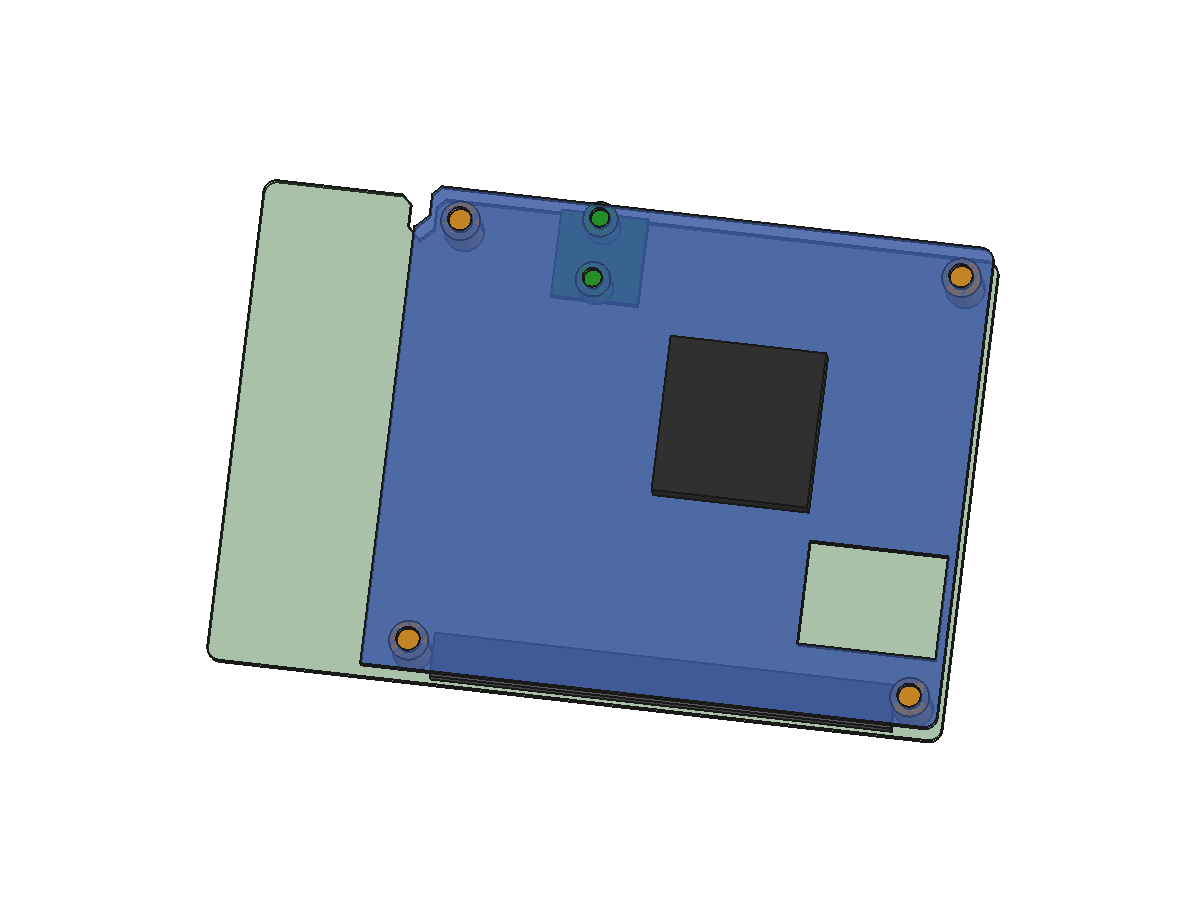
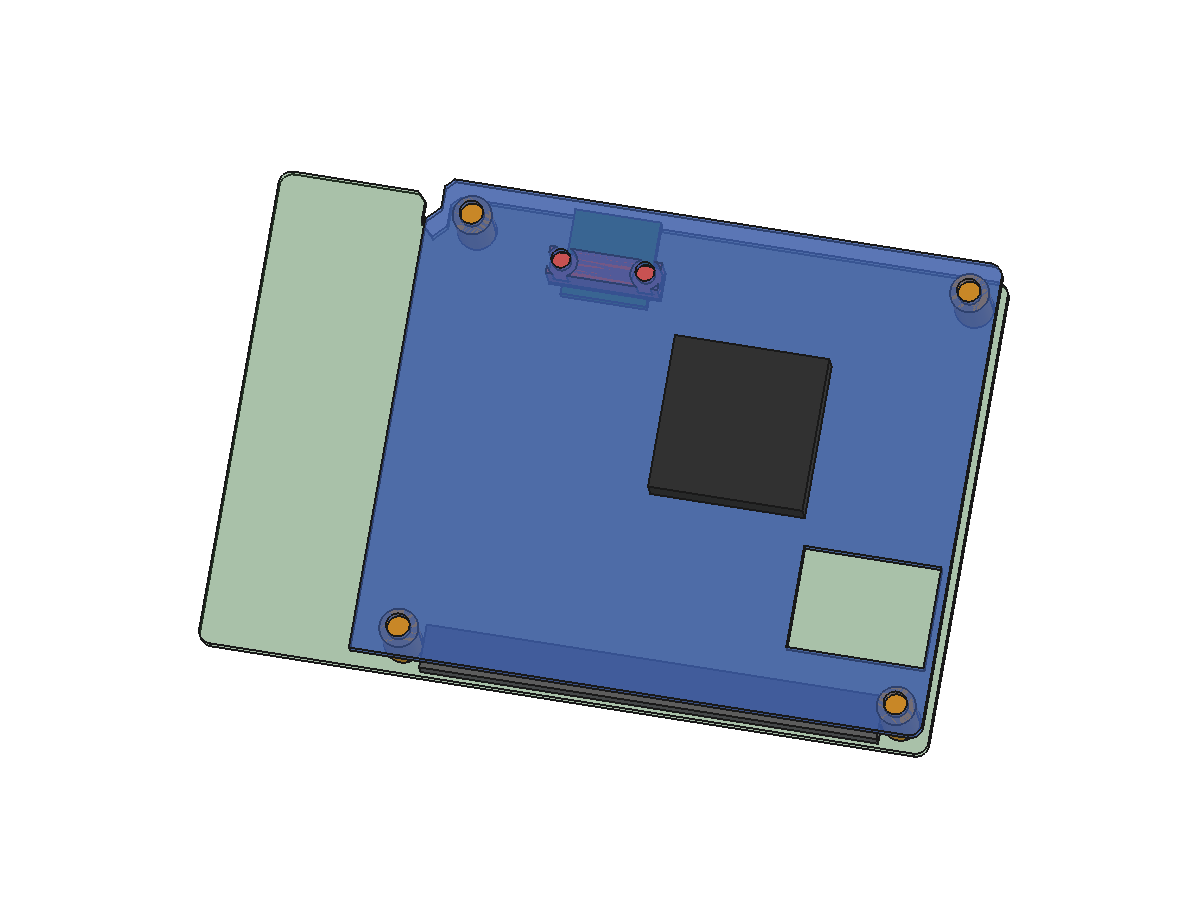
mechanical: press the CAM1 adapter with a printed bar instead of screws
A PCB cannot carry moulded bosses, so the downward pressure now comes from a separate 3D-printed press bar + silicone foam, fastened to the plate underside with 2x M2 into heat-set inserts. Bar is shaped to clear the IR receiver (y>=51.12) and the 24P FPC (y<=46.24); +y edge left free for the 30P ribbon. Clash check vs STEP: plate/bar/foam/adapter all 0.

diff --git a/mechanical/lbc3_hat/model.py b/mechanical/lbc3_hat/model.py
@@ -62,10 +62,18 @@ CAM1_RECT = (35.20, 50.03, 43.70, 52.53)
 CAM1_H = 0.77
 # Adapter board: just covers CAM1 + two M2.5 screws.   # TBC: refine with user
 ADAPTER_L, ADAPTER_W, ADAPTER_T = 10.0, 10.0, 1.6
-ADAPTER_CX, ADAPTER_CY = 39.45, 51.0
+ADAPTER_CX, ADAPTER_CY = 39.45, 51.28
 ADAPTER_Z0 = CAM1_H              # sits on top of the socket
-ADAPTER_HOLE_SPAN = 3.5          # the two M2 holes, along board y
-ADAPTER_HOLE_D = M2_CLEAR_D
+# CAM1 adapter retention.
+# The top plate is a PCB and cannot carry moulded bosses, so the downward
+# pressure comes from a SEPARATE part: a 3D-printed press bar screwed to the
+# plate's underside.  It is shaped to clear the IR receiver (y>=51.12) and the
+# 24P FPC (y<=46.24), and leaves the +y edge free for the 30P ribbon.
+PRESS_BAR = (33.0, 47.2, 46.0, 50.4)      # x0, y0, x1, y1
+PRESS_BAR_Z0 = 3.4                        # bar bottom (foam sits below it)
+FOAM_T = 1.0                              # silicone/EPDM pad -> compliance
+PRESS_BAR_HOLES = [(34.6, 48.8), (44.4, 48.8)]   # 2x M2 into heat-set inserts
+M2_INSERT_D = 3.6                         # cosmetic: modelled as a hole
 
 NOTCH = [(16.0, 56.0), (17.0, 55.0), (17.0, 52.5), (18.5, 51.0),
          (20.0, 52.5), (20.0, 55.0), (21.0, 56.0), (21.0, 57.5), (16.0, 57.5)]
@@ -73,6 +81,7 @@ NOTCH = [(16.0, 56.0), (17.0, 55.0), (17.0, 52.5), (18.5, 51.0),
 COL_BOARD, COL_PLATE = (0.20, 0.45, 0.20), (0.20, 0.35, 0.70)
 COL_STAND, COL_HDR = (0.85, 0.55, 0.10), (0.35, 0.35, 0.35)
 COL_FAN, COL_ADAPTER = (0.15, 0.15, 0.15), (0.10, 0.60, 0.10)
+COL_PRESS, COL_FOAM_PAD = (0.85, 0.30, 0.30), (0.95, 0.85, 0.20)
 
 
 # --------------------------------------------------------------------------
@@ -116,28 +125,30 @@ def build_plate():
                           GAP - 2, FAN_SCREW_D, PLATE_T + 4))
     x0, y0, x1, y1 = POWER_OPEN
     s = s.cut(box_between(x0, y0, GAP - 2, x1, y1, GAP + PLATE_T + 2))
-    # two M2.5 holes for the CAM1 adapter board
-    for sy in (-1, 1):
-        s = s.cut(cyl(ADAPTER_CX, ADAPTER_CY + sy * ADAPTER_HOLE_SPAN,
-                      GAP - 2, ADAPTER_HOLE_D, PLATE_T + 4))
+    # two M2 holes for the printed press bar that holds the CAM1 adapter
+    for hx, hy in PRESS_BAR_HOLES:
+        s = s.cut(cyl(hx, hy, GAP - 2, M2_CLEAR_D, PLATE_T + 4))
     return s
 
 
 def build_adapter():
-    s = Part.makeBox(ADAPTER_L, ADAPTER_W, ADAPTER_T,
-                     Vector(ADAPTER_CX - ADAPTER_L / 2, ADAPTER_CY - ADAPTER_W / 2,
-                            ADAPTER_Z0))
-    for sy in (-1, 1):
-        s = s.cut(cyl(ADAPTER_CX, ADAPTER_CY + sy * ADAPTER_HOLE_SPAN,
-                      ADAPTER_Z0 - 1, ADAPTER_HOLE_D, ADAPTER_T + 2))
+    """The user's CAM1 -> FPC30 adapter board, just resting on the socket."""
+    return Part.makeBox(ADAPTER_L, ADAPTER_W, ADAPTER_T,
+                        Vector(ADAPTER_CX - ADAPTER_L / 2, ADAPTER_CY - ADAPTER_W / 2,
+                               ADAPTER_Z0))
+
+
+def build_press_bar():
+    x0, y0, x1, y1 = PRESS_BAR
+    s = box_between(x0, y0, PRESS_BAR_Z0, x1, y1, GAP)
+    for hx, hy in PRESS_BAR_HOLES:                 # heat-set insert holes
+        s = s.cut(cyl(hx, hy, PRESS_BAR_Z0 + 2.0, M2_INSERT_D, GAP - PRESS_BAR_Z0))
     return s
 
 
-def build_adapter_spacers():
-    """M2 nylon spacers between the plate underside and the adapter board."""
-    z0 = ADAPTER_Z0 + ADAPTER_T
-    return [cyl(ADAPTER_CX, ADAPTER_CY + sy * ADAPTER_HOLE_SPAN, z0,
-                M2_SPACER_OD, GAP - z0) for sy in (-1, 1)]
+def build_press_foam():
+    x0, y0, x1, y1 = PRESS_BAR
+    return box_between(x0, y0, PRESS_BAR_Z0 - FOAM_T, x1, y1, PRESS_BAR_Z0)
 
 
 def build_standoffs():
@@ -186,8 +197,8 @@ def build(doc_name="lbc3_hat"):
     show(build_adapter(), "B2B_adapter", COL_ADAPTER, doc)
     for i, st in enumerate(build_standoffs()):
         show(st, "STANDOFF_%d" % (i + 1), COL_STAND, doc)
-    for i, sp in enumerate(build_adapter_spacers()):
-        show(sp, "ADAPTER_SPACER_%d" % (i + 1), COL_ADAPTER, doc)
+    show(build_press_bar(), "PRESS_BAR", COL_PRESS, doc)
+    show(build_press_foam(), "PRESS_FOAM", COL_FOAM_PAD, doc)
     doc.recompute()
     return doc
 
@@ -198,8 +209,8 @@ def fit_into_step(doc):
     show(to_step(build_adapter()), "B2B_adapter", COL_ADAPTER, doc)
     for i, st in enumerate(build_standoffs()):
         show(to_step(st), "STANDOFF_%d" % (i + 1), COL_STAND, doc)
-    for i, sp in enumerate(build_adapter_spacers()):
-        show(to_step(sp), "ADAPTER_SPACER_%d" % (i + 1), COL_ADAPTER, doc)
+    show(to_step(build_press_bar()), "PRESS_BAR", COL_PRESS, doc)
+    show(to_step(build_press_foam()), "PRESS_FOAM", COL_FOAM_PAD, doc)
     doc.recompute()
     return doc
 
